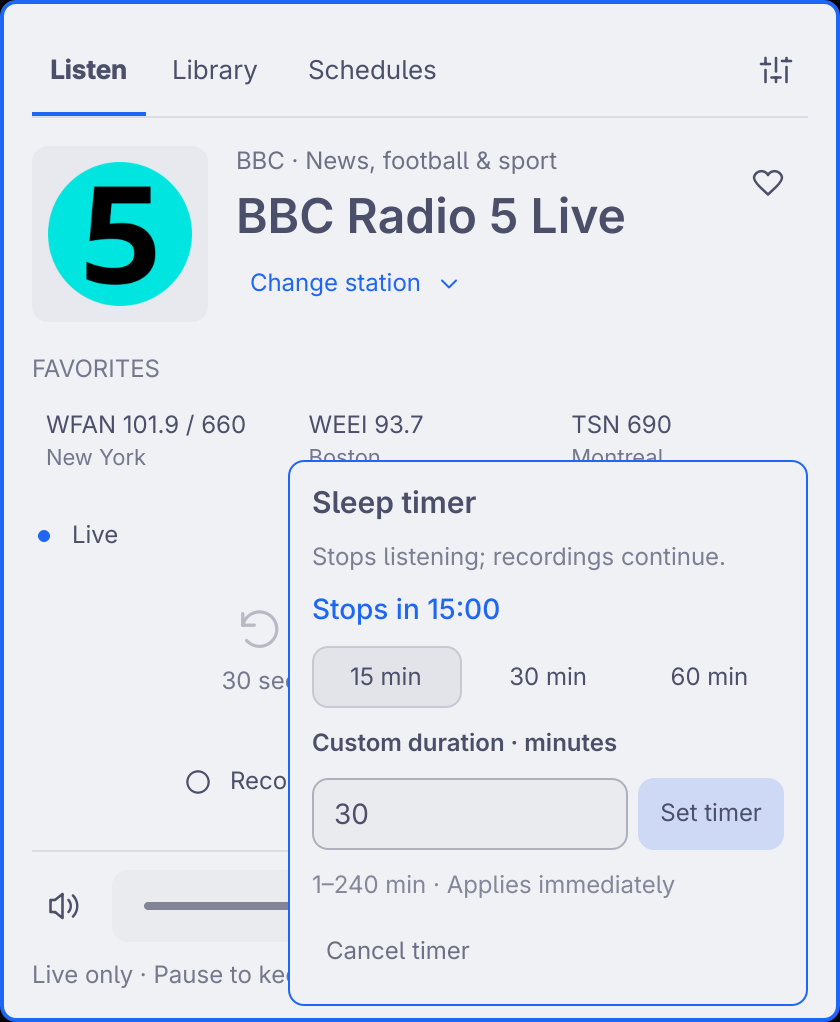
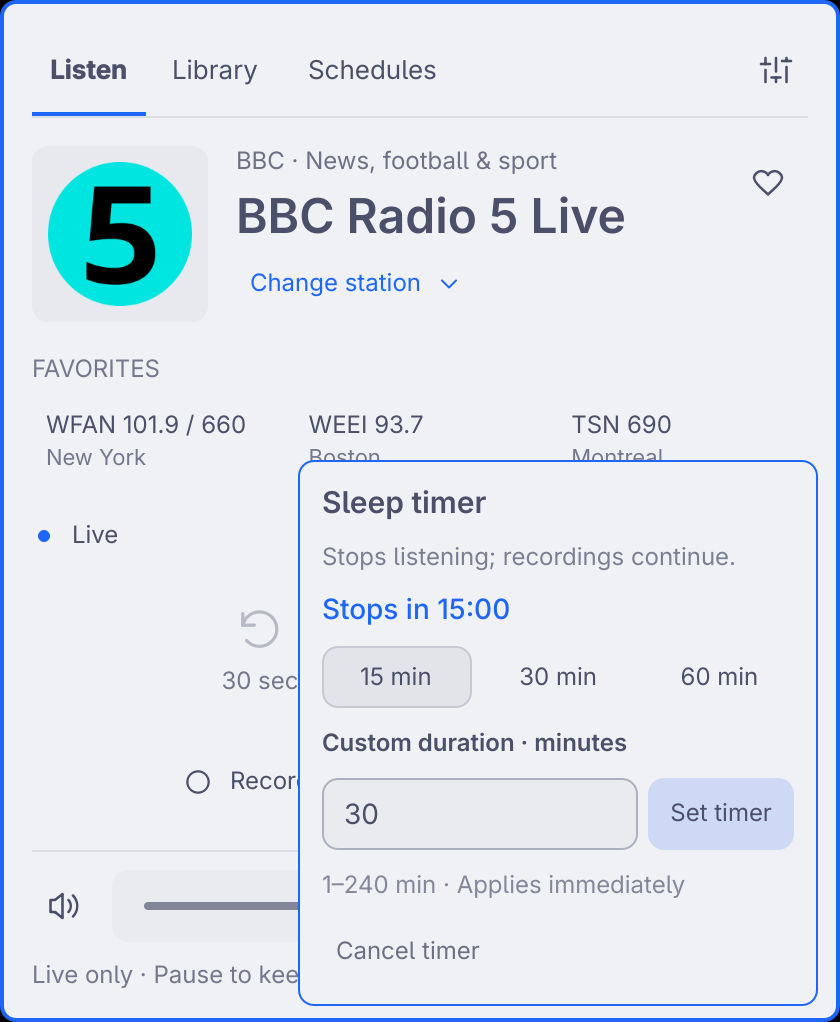
Preserve browsing position and audit compact views and popovers

Changed region(s): [[0.3405, 0.455, 0.9905, 1.0], [0.8048, 0.637, 0.8976, 0.6673], [0.619, 0.637, 0.7119, 0.6673]]

diff --git a/tools/qml-smoke/compact.qml b/tools/qml-smoke/compact.qml
@@ -1,0 +1,174 @@
+import QtQuick
+import QtQuick.Window
+import QtTest
+import Quickshell
+import qs.Commons as Commons
+import "plugin" as Plugin
+
+// Uses the native card's actual padding and border, without touching the desktop.
+ShellRoot {
+  Window {
+    id: window
+    visible: true; width: 320; height: 300
+    color: Commons.Color.popups.background
+    Plugin.Panel { id: panel; width: window.width; height: window.height }
+    Timer { interval: 300; running: true; onTriggered: audit.run() }
+    TestCase {
+      id: audit
+      when: false
+      property var issues: []
+      readonly property var radio: panel.radio
+      readonly property var view: panel.testView
+      readonly property var savedShow: ({id:"saved",label:"The afternoon sports roundtable and listener calls",stationId:"weei-fm",stationName:"WEEI 93.7",status:"complete",bytes:3600000,durationSeconds:7200,resumePosition:3661,playable:true,plannedStart:"2026-11-19T14:00:00-05:00",plannedEnd:"2026-11-19T16:00:00-05:00",startedAt:"2026-11-19T14:00:01-05:00",endedAt:"2026-11-19T16:00:00-05:00"})
+      readonly property var schedule: ({id:"future",label:"Weekend sports roundup and listener questions",stationId:"talksport",stationName:"talkSPORT",enabled:true,weekdays:[0,6],startTime:"23:00",endTime:"01:00",timezone:"America/Argentina/Buenos_Aires",nextStart:"2026-11-28T23:00:00-03:00",nextEnd:"2026-11-29T01:00:00-03:00"})
+      function issue(message) { issues.push(message); console.log("COMPACT ISSUE",message) }
+      function capture(name) {
+        let done = false, saved = false
+        window.contentItem.grabToImage(function(result) { saved = result.saveToFile("__OUTPUT__/" + name + ".png"); done = true })
+        tryVerify(function() { return done },5000); verify(saved,"Could not capture " + name)
+      }
+      function descendants(item, visit) {
+        if (!item.visible) return
+        visit(item)
+        for (const child of item.children) descendants(child,visit)
+      }
+      function checkLayout(name) {
+        descendants(panel,function(item) {
+          if (item.width < -0.5) issue(name + ": negative width " + item)
+          if (item.text && item._contentNaturalWidth !== undefined && item.width + 1 < item.implicitWidth)
+            issue(name + ": crowded button '" + item.text + "' " + item.width.toFixed(1) + "/" + item.implicitWidth.toFixed(1))
+          // Intentional elision remains appropriate for station titles and fields.
+          if (item.text && item.textFormat !== undefined && item.wrapMode === Text.NoWrap && item.elide === Text.ElideNone && item.contentWidth > item.width + 1)
+            issue(name + ": clipped text '" + item.text + "' " + item.width.toFixed(1) + "/" + item.contentWidth.toFixed(1))
+          if ((item.activeFocusOnTab || item._contentNaturalWidth !== undefined) && item.width > 0 && item.enabled) {
+            const p = item.mapToItem(panel,0,0)
+            if (p.x < -0.5 || p.x + item.width > window.width + 0.5)
+              issue(name + ": control outside card " + (item.text || item.Accessible.name || item))
+          }
+        })
+        verify(panel.testScroller.height > 0, name + ": body has no scrolling space")
+        const dock = panel.testDock.mapToItem(panel,0,0)
+        verify(dock.y + panel.testDock.height <= window.height + 0.5, name + ": dock escaped popup")
+      }
+      function checkFocus(name, count) {
+        for (let i=0;i<count;i++) {
+          keyClick(Qt.Key_Tab); wait(22)
+          const focused = panel.virtualFocus ? panel.scrollTarget : window.activeFocusItem
+          if (!focused || !focused.visible || !focused.enabled) { issue(name + ": Tab lost focus"); continue }
+          let parent = focused
+          while (parent && parent !== panel.testBody) parent = parent.parent
+          if (parent !== panel.testBody) continue
+          let p = focused.mapToItem(panel.testScroller,0,0)
+          if (p.y < -0.5 || p.y + focused.height > panel.testScroller.height + 0.5) { wait(40); p = focused.mapToItem(panel.testScroller,0,0) }
+          if (p.y < -0.5 || p.y + focused.height > panel.testScroller.height + 0.5)
+            issue(name + ": focus hidden while tabbing to " + (focused.Accessible.name || focused.text || focused) + " y=" + p.y.toFixed(1) + " height=" + focused.height.toFixed(1) + " viewport=" + panel.testScroller.height.toFixed(1))
+        }
+      }
+      function reset(index) {
+        panel.showPlayer()
+        view.editing = false; view.nowEditing = false; view.storageEditing = false
+        view.localError = ""; view.confirmation = ""; view.expandedRecordings = ({})
+        view.clearLibraryFilters()
+        radio.station = radio.stations[index % radio.stations.length]; radio.stationId = radio.station.id
+        radio.playbackKind = "live"; radio.wanted = true; radio.playbackState = "playing"; radio.paused = false
+        radio.error = ""; radio.bufferMinutes = 0; radio.temporaryBuffer = false; radio.dvr = false; radio.sleepRemaining = 0
+        radio.recordings = {available:true,revision:1,error:"",localTimezone:"America/New_York",settings:{folder:"/home/demo/Music/Yakker",storageCapBytes:5368709120,freeSpaceReserveBytes:1073741824,concurrency:3},recordings:[savedShow],schedules:[schedule],activeCount:0,usedBytes:3600000}
+        panel.testScroller.contentY = 0
+      }
+      function run() {
+        try {
+          const xhr = new XMLHttpRequest(); xhr.open("GET",Qt.resolvedUrl("plugin/stations.json"),false); xhr.send()
+          radio.stations = JSON.parse(xhr.responseText).concat([{id:"custom-long",name:"Community radio and neighborhood events",subtitle:"Independent radio",streamUrl:"http://127.0.0.1:1/custom",city:"San Francisco",country:"US",custom:true}])
+          radio.initialized = true; radio.ready = true; radio.volume = 62
+          radio.favoriteIds = radio.stations.slice(0,6).map(function(s) { return s.id })
+          panel.open()
+          const cases = [
+            ["listen",function() {}],
+            ["replay",function() { radio.paused=true;radio.playbackState="paused";radio.temporaryBuffer=true;radio.dvr=true;radio.bufferStart=0;radio.bufferEnd=900;radio.position=600 }],
+            ["saved-player",function() { radio.playbackKind="recording";radio.recordingId="saved";radio.recordingTitle=savedShow.label;radio.duration=7200;radio.position=3661;radio.station=radio.noStation;radio.stationId="" }],
+            ["library",function() { panel.openRecordings(false) }],
+            ["details",function() { panel.openRecordings(false);view.toggleDetails("saved") }],
+            ["schedules",function() { panel.openSchedules() }],
+            ["weekly-editor",function() { panel.openSchedules();view.beginEdit(schedule) }],
+            ["once-editor",function() { panel.openSchedules();view.beginEdit(null);view.scheduleKind="once" }],
+            ["record-now",function() { panel.recordNow() }],
+            ["listening",function() { panel.openSettings() }],
+            ["storage",function() { panel.openSettingsStorage();view.testFolder.text+="/Draft" }],
+            ["alerts",function() { panel.openSettings();panel.selectSettingsTab("alerts") }],
+            ["custom-stations",function() { panel.openSettings();panel.selectSettingsTab("stations") }],
+            ["station-editor",function() { panel.openSettings();panel.selectSettingsTab("stations");panel.openStationEditor({id:"custom",name:"Community Radio",streamUrl:"https://radio.example/stream",city:"Boston",country:"US",website:"https://radio.example"});panel.confirmStationDelete=true }],
+            ["empty-library",function() { radio.recordings=Object.assign({},radio.recordings,{recordings:[]});panel.openRecordings(false) }],
+            ["no-results",function() { panel.openRecordings(false);view.testSearch.text="Missing show" }],
+            ["connection-error",function() { radio.wanted=false;radio.playbackState="error";radio.error="This station could not be reached. Try another station or reconnect." }]
+          ]
+          const base = Commons.Style.fontBaseSize
+          let index = 0
+          for (const size of [[360,420,base],[320,300,base],[288,300,base],[320,360,Math.max(14,base)]]) {
+            window.width=size[0];window.height=size[1];Commons.Style.fontBaseSize=size[2]
+            for (const entry of cases) {
+              reset(index++); entry[1](); wait(45)
+              const name = entry[0] + "-" + size.join("x")
+              checkLayout(name)
+              if (entry[0].indexOf("editor") >= 0 || ["library","storage","alerts","record-now","schedules","custom-stations"].indexOf(entry[0]) >= 0) checkFocus(name,16)
+              if (size[0]===320 && size[2]===base) capture(name)
+            }
+          }
+          reset(index++); window.width=320;window.height=300;Commons.Style.fontBaseSize=base
+          panel.openRecordings(false); view.toggleDetails("saved"); wait(40)
+          view.testLibrary.itemAt(0).testDelete.forceActiveFocus(); wait(50)
+          const libraryScroll=panel.testScroller.contentY
+          verify(libraryScroll>50,"Scroll-return fixture did not scroll")
+          panel.testSettingsButton.clicked(); wait(30)
+          panel.testSettingsClose.clicked(); wait(60)
+          verify(panel.recordingsOpen && !panel.settingsOpen)
+          verify(panel.testSettingsButton.activeFocus,"Closing Settings did not return to its opener")
+          if (panel.testScroller.contentY !== libraryScroll) console.log("QA scroll return",panel.testScroller.contentY,libraryScroll,panel.settingsReturnScroll,panel.testScroller.contentHeight,panel.testScroller.height)
+          compare(panel.testScroller.contentY,libraryScroll,"Closing Settings jumped the library scroll position")
+          view.testSearch.forceActiveFocus(); wait(50)
+          mouseWheel(panel.testScroller,20,panel.testScroller.height/2,0,-120)
+          wait(70)
+          const manualScroll=panel.testScroller.contentY
+          verify(manualScroll>0,"Mouse wheel did not scroll the content")
+          radio.recordings=Object.assign({},radio.recordings,{recordings:[savedShow,Object.assign({},savedShow,{id:"new",label:"Newly completed show"})]})
+          wait(80)
+          verify(panel.testScroller.contentY>=manualScroll-1,"Library update snapped back to the old focused field")
+          // Popovers have a separate overlay: check their actual window bounds
+          // and Escape/focus return at the same padded compact sizes.
+          for (const font of [base,Math.max(14,base)]) {
+            window.width=320; window.height=font===base ? 300 : 360
+            Commons.Style.fontBaseSize=font
+            function popupFits(popup,name) {
+              const p=popup.background.mapToItem(window.contentItem,0,0)
+              verify(p.x>=0 && p.y>=0 && p.x+popup.width<=window.width+0.5 && p.y+popup.height<=window.height+0.5,name+": overlay clipped")
+            }
+            reset(index++); panel.testStationPicker.open()
+            tryVerify(function() { return panel.testStationPicker.testSearch.activeFocus },2000)
+            popupFits(panel.testStationPicker.testPopup,"Station picker")
+            panel.testStationPicker.testSearch.text="WFAN New York"
+            compare(panel.testStationPicker.filtered.length,1)
+            keyClick(Qt.Key_Down); keyClick(Qt.Key_Up)
+            verify(panel.testStationPicker.testSearch.activeFocus)
+            panel.testStationPicker.testSearch.text="No station matches"
+            wait(25); popupFits(panel.testStationPicker.testPopup,"Empty station picker")
+            capture("station-picker-padded-"+font)
+            keyClick(Qt.Key_Escape); verify(!panel.testStationPicker.popupOpen && panel.opened)
+            reset(index++); panel.openRecordings(false); wait(35)
+            view.testStatus.open(); tryVerify(function() { return view.testStatus.popupOpen },2000)
+            popupFits(view.testStatus.testPopup,"Library filter")
+            keyClick(Qt.Key_Escape); tryVerify(function() { return !view.testStatus.popupOpen && view.testStatus.activeFocus },2000)
+            reset(index++); radio.sleepRemaining=900; panel.testSleepPopup.open()
+            tryVerify(function() { return panel.testSleepPresets.itemAt(0).activeFocus },2000)
+            popupFits(panel.testSleepPopup,"Sleep timer")
+            const cancel=panel.testSleepOff.mapToItem(window.contentItem,0,0)
+            verify(cancel.y+panel.testSleepOff.height<=window.height,"Timer cancel clipped")
+            capture("sleep-timer-padded-"+font)
+            keyClick(Qt.Key_Escape); verify(!panel.testSleepPopup.opened && panel.opened)
+          }
+          verify(issues.length === 0,issues.length + " compact layout/focus issues; see COMPACT ISSUE output")
+          console.log("YAKKER_COMPACT_VIEWS_PASS")
+        } catch(error) { console.error("YAKKER_COMPACT_VIEWS_FAIL",error,error.stack) }
+        Qt.quit()
+      }
+    }
+  }
+}

diff --git a/Panel.qml b/Panel.qml
@@ -189,6 +189,7 @@ Ui.Panel {
     if (text.toLowerCase() === "r" && !radio.wanted) radio.play()
   }
   function openSettings() {
+    settingsScrollRestore.stop()
     if (settingsOpen) { closeSettings(); return }
     settingsReturnView = recordingsOpen ? recordingsView.tab : "listen"
     settingsReturnScroll = scroller.contentY
@@ -204,6 +205,7 @@ Ui.Panel {
   }
   function closeSettings() {
     if (stationMutationPending || recordingsView.pending) return
+    scrollTarget = null
     settingsOpen = false
     recordingsOpen = settingsReturnView !== "listen"
     if (recordingsOpen) {
@@ -211,9 +213,24 @@ Ui.Panel {
       recordingsView.editing = false
       recordingsView.nowEditing = false
       recordingsView.storageEditing = false
-      recordingsView.activate()
     } else { cursor = 4; keyCatcher.forceActiveFocus() }
-    Qt.callLater(function() { scroller.contentY = Math.min(settingsReturnScroll, Math.max(0, scroller.contentHeight - scroller.height)) })
+    Qt.callLater(function() {
+      settingsScrollRestore.restart()
+      // Return to the control that opened Settings without refocusing a body
+      // field that would scroll the restored library back to the top.
+      root.cursor = 4
+      settingsButton.forceActiveFocus()
+    })
+  }
+  Timer {
+    id: settingsScrollRestore
+    interval: 16
+    onTriggered: {
+      if (root.settingsOpen || (root.recordingsOpen ? recordingsView.tab : "listen") !== root.settingsReturnView) return
+      // Wait for the restored view to complete its native layout before
+      // clamping; the outgoing Settings content may have a shorter range.
+      scroller.contentY = Math.min(root.settingsReturnScroll, Math.max(0, scroller.contentHeight - scroller.height))
+    }
   }
   function backFromSettings() {
     if (stationMutationPending || recordingsView.pending) return
@@ -657,6 +674,8 @@ Ui.Panel {
           contentWidth: width
           contentHeight: panelContent.implicitHeight
           boundsBehavior: Flickable.StopAtBounds
+          // A deliberate mouse/touch scroll takes over from focus following.
+          onMovementStarted: { root.scrollTarget = null; scrollEnsure.stop() }
           clip: true
           QQC.ScrollBar.vertical: QQC.ScrollBar { policy: QQC.ScrollBar.AsNeeded }
           Column {

diff --git a/tools/test-recordings-ui.py b/tools/test-recordings-ui.py
@@ -21,6 +21,7 @@ SMOKE = ROOT / "tools/qml-smoke"
 def main():
     parser = argparse.ArgumentParser(description=__doc__)
     parser.add_argument("--output", type=Path, default=Path("/tmp/yakker-recordings-ui-qa"))
+    parser.add_argument("--compact", action="store_true", help="Audit all views with native popup padding, narrow widths, and short heights")
     args = parser.parse_args()
     output = args.output.resolve()
     output.mkdir(parents=True, exist_ok=True)
@@ -40,7 +41,15 @@ def main():
         qs = imports / "qs"
         qs.mkdir()
         shutil.copytree(shell / "Ui", qs / "Ui", symlinks=False)
-        shutil.copy2(SMOKE / "KeyboardPanel.qml", qs / "Ui/KeyboardPanel.qml")
+        if args.compact:
+            wrapper = (ROOT / "tools/readme/KeyboardPanel.qml").read_text()
+            wrapper = wrapper.replace("width: contentWidth", "width: Math.min(contentWidth, owner.width)")
+            wrapper = wrapper.replace("height: contentHeight", "height: Math.min(contentHeight, owner.height)")
+            wrapper = wrapper.replace("return Math.ceil(value + card.contentTopInset + card.contentBottomInset)", "return Math.min(owner.height, Math.ceil(value + card.contentTopInset + card.contentBottomInset))")
+            wrapper = wrapper.replace("function fittedContentWidth(value) { return value }", "function fittedContentWidth(value) { return Math.min(value, owner.width) }")
+            (qs / "Ui/KeyboardPanel.qml").write_text(wrapper)
+        else:
+            shutil.copy2(SMOKE / "KeyboardPanel.qml", qs / "Ui/KeyboardPanel.qml")
         for name in ("Commons", "services"):
             (qs / name).symlink_to(shell / name, target_is_directory=True)
         for name in ("BarWidget.qml", "Panel.qml", "RadioService.qml", "RecordingNotices.js", "StationLogo.qml", "RecordingsView.qml", "FocusButton.qml", "FocusIcon.qml", "StationPicker.qml", "MarqueeText.qml", "StateCard.qml", "FocusTextField.qml", "FocusDropdown.qml", "FocusSlider.qml", "qmldir"):
@@ -62,7 +71,8 @@ def main():
         field = plugin / "FocusTextField.qml"
         field.write_text(field.read_text().replace('  id: root', '  id: root\n  property alias testClear: clearButton', 1))
         panel = plugin / "Panel.qml"
-        panel.write_text(panel.read_text().replace('  property var anchorItem: null', '''  property alias testPlayerStatus: playerStatus
+        panel.write_text(panel.read_text().replace('  property var anchorItem: null', '''  property alias testBody: panelContent
+  property alias testPlayerStatus: playerStatus
   property alias testDockStatus: dockStatus
   property alias testPlaybackHint: playbackHintText
   property alias testTimeline: timelineSlider
@@ -177,7 +187,7 @@ def main():
         env = os.environ.copy()
         env.pop("QT_QPA_PLATFORMTHEME", None)
         env.update(XDG_RUNTIME_DIR=str(runtime), XDG_DATA_HOME=str(data), XDG_CONFIG_HOME=str(config),
-                   QT_QPA_PLATFORM="offscreen", QT_QUICK_BACKEND="software",
+                   QT_QPA_PLATFORM="offscreen", QT_QUICK_BACKEND="software", QML_XHR_ALLOW_FILE_READ="1",
                    QML_IMPORT_PATH=str(imports), GOCACHE=env.get("GOCACHE", str(cache)), CGO_ENABLED="0",
                    PATH=str(bin_dir) + os.pathsep + env["PATH"], YAKKER_NOTIFICATION_LOG=str(base / "notifications.log"))
         subprocess.run(["go", "build", "-o", str(plugin / "yakker-controller"), "./cmd/yakker-controller"], cwd=ROOT, env=env, check=True)
@@ -193,12 +203,16 @@ def main():
         (data / "yakker").mkdir()
         (data / "yakker/recordings.json").write_text(json.dumps(state))
         # JSON string escaping is also correct for a QML string literal.
-        qml = (SMOKE / "recordings.qml").read_text().replace('"__OUTPUT__/"', json.dumps(str(output) + "/"))
+        qml = (SMOKE / ("compact.qml" if args.compact else "recordings.qml")).read_text().replace('"__OUTPUT__/"', json.dumps(str(output) + "/"))
         (base / "shell.qml").write_text(qml)
-        run = subprocess.run(["quickshell", "-p", str(base / "shell.qml")], env=env, text=True, stdout=subprocess.PIPE, stderr=subprocess.STDOUT, timeout=60)
+        run = subprocess.run(["quickshell", "-p", str(base / "shell.qml")], env=env, text=True, stdout=subprocess.PIPE, stderr=subprocess.STDOUT, timeout=120 if args.compact else 60)
         print(run.stdout)
-        if run.returncode or "YAKKER_FULL_RECORDINGS_REAL_CONTROLLER_PASS" not in run.stdout or "YAKKER_FULL_RECORDINGS_REAL_CONTROLLER_FAIL" in run.stdout:
+        marker = "YAKKER_COMPACT_VIEWS" if args.compact else "YAKKER_FULL_RECORDINGS_REAL_CONTROLLER"
+        if run.returncode or marker + "_PASS" not in run.stdout or marker + "_FAIL" in run.stdout:
             raise SystemExit("Native recordings UI smoke test failed")
+        if args.compact:
+            print("Compact audit screenshots:", output)
+            return
         notices = [json.loads(line) for line in (base / "notifications.log").read_text().splitlines()]
         assert sum(args[-2] == "Recordings need attention" for args in notices) == 1, notices
         print("Notification delivery: unexpected helper exit reported once")

diff --git a/README.md b/README.md
@@ -203,6 +203,8 @@ hover/focus feedback without changing size. Recording elapsed and total times
 sit at opposite ends of the track; the elapsed time previews a drag before seeking.
 
 Left/Right on a navigation tab switches sections and keeps focus on the tab strip.
+Closing Settings restores the previous view and scroll position, with focus on
+its gear button. Manual scrolling takes over until the next focus move.
 Tab continues through the controls in visual order. Fields use normal text-editing
 keys, and Tab can leave the custom station editor for the persistent playback
 controls. Mouse hover clears when the pointer leaves; keyboard focus remains
@@ -663,11 +665,15 @@ Optional native UI checks (installed Omarchy controls required):
 
 ```sh
 python3 tools/test-recordings-ui.py
+python3 tools/test-recordings-ui.py --compact --output /tmp/yakker-compact-ui-qa
 ```
 
 This uses isolated temporary settings/data and silent local audio. It verifies
 keyboard navigation, scheduling, preview, stale drafts, file playback/seek and
 helper recovery, and writes screenshots under `/tmp/yakker-recordings-ui-qa`.
+The compact audit includes native card padding, 68 view/size/font combinations,
+Tab traversal and focus visibility, manual scrolling and Settings return, and
+station, filter and timer popover bounds and cancellation.
 Its test container substitutes for the actual layer-shell popup. Audible quality,
 physical sleep/resume, and installed-shell focus/lifecycle behavior also need
 manual checks on the target desktop.
